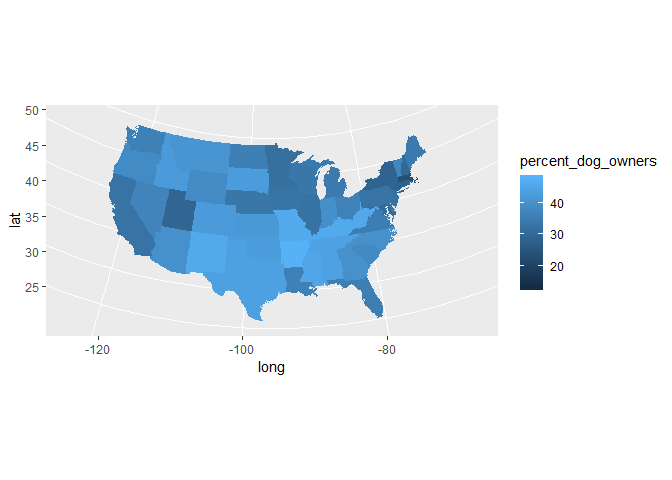
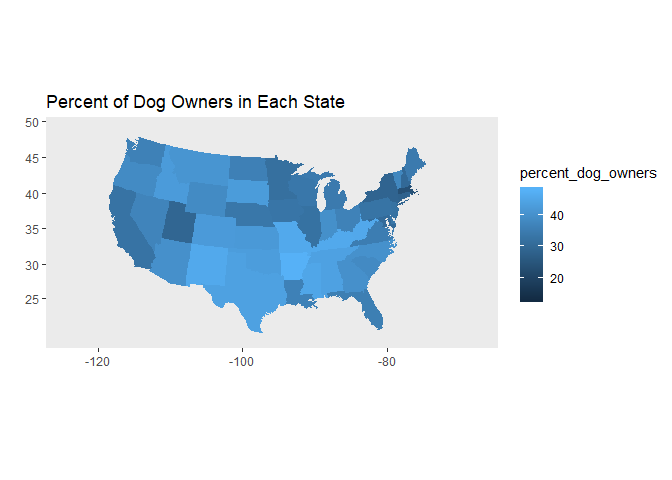
Fix map error and remove axis labels

diff --git a/doc/analysis.md b/doc/analysis.md
@@ -46,19 +46,22 @@ us <- map_data(map = "state")
 cnd$state <- str_to_lower(cnd$state)
 
 map_plot <- ggplot() +
-  geom_map(data = us, map = us,
-           aes(x = long, y = lat, map_id = region),
-           size = .15) +
   geom_map(data = cnd, map = us,
            aes(fill = percent_dog_owners, map_id = state),
-           size = .15) +
+           size = .15, color = NA) +
+  expand_limits(x=us$long, y=us$lat) +
   scale_fill_continuous() +
-  coord_map("albers", lat0 = 39, lat1 = 45)
-```
+  coord_map("albers", lat0 = 39, lat1 = 45) +
+  labs(
+    title = "Percent of Dog Owners in Each State",
+    x = "",
+    y = ""
+    ) +
+  theme(
+    panel.grid = element_blank(),
+    panel.grid.minor = element_blank()
+  )
 
-    ## Warning: Ignoring unknown aesthetics: x, y
-
-``` r
 map_plot
 ```
 
